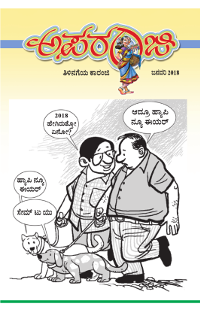
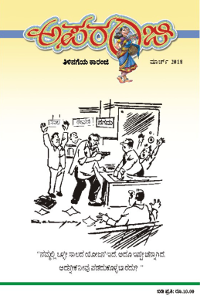
March issue updated

diff --git a/index.php b/index.php
@@ -85,7 +85,7 @@ session_start();
 			echo "		  </div>
 				</div>";
 				
-			echo "<div class=\"cover\"><a href=\"Volumes/".$currentyear."_".$currentmonth.".pdf#page=1\" target=\"_blank\"><img src=\"php/images/cover1.png\" alt=\"".$month[$currentmonth-1]."\" title=\"".$month[$currentmonth-1]." ಸಂಚಿಕೆ\"/></a></div>";
+			echo "<div class=\"cover\"><a href=\"Volumes/".$currentyear."_".$currentmonth.".pdf#page=1\" target=\"_blank\"><img src=\"php/images/cover.png\" alt=\"".$month[$currentmonth-1]."\" title=\"".$month[$currentmonth-1]." ಸಂಚಿಕೆ\"/></a></div>";
 		?>
 			
 		
